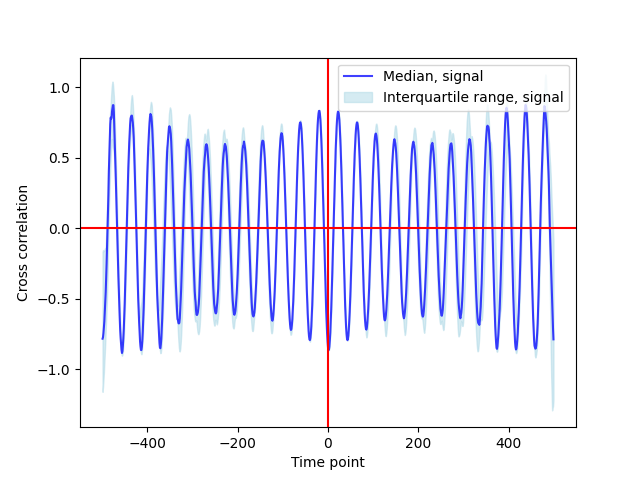
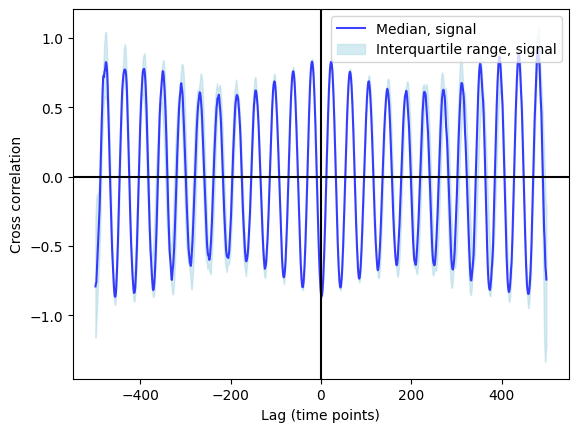
change(analysis): replace cross-correlation figures

Changed region(s): [[0.0, 0.0, 0.9965, 0.9931], [0.0934, 0.0602, 0.1246, 0.1204]]

diff --git a/chapter_analysis/chapter_analysis.tex b/chapter_analysis/chapter_analysis.tex
@@ -1101,16 +1101,15 @@ Importantly, \textcite{kivietStochasticityMetabolismGrowth2014} employed a singl
 
 \begin{figure}
   \centering
-  \begin{subfigure}[t]{0.5\textwidth}
+  \begin{subfigure}[t]{0.6\textwidth}
   \centering
-  % TODO: Squish so that it is consistent with adjacent figure
     \includegraphics[width=\linewidth]{sinusoid_and_fitzhughnagumo_nonoise.png}
     \caption{
     }
     \label{fig:xcf-nonoise-ts}
   \end{subfigure}%
   \centering
-  \begin{subfigure}[t]{0.5\textwidth}
+  \begin{subfigure}[t]{0.4\textwidth}
   \centering
     \includegraphics[width=\linewidth]{randomshift_sinusoid_fitzhughnagumo_xcf.png}
     \caption{
@@ -1118,7 +1117,7 @@ Importantly, \textcite{kivietStochasticityMetabolismGrowth2014} employed a singl
     \label{fig:xcf-nonoise-xcf}
   \end{subfigure}
 
-  \begin{subfigure}[t]{0.5\textwidth}
+  \begin{subfigure}[t]{0.6\textwidth}
   \centering
     \includegraphics[width=\linewidth]{sinusoid_and_fitzhughnagumo_gillnoise.png}
     \caption{
@@ -1126,7 +1125,7 @@ Importantly, \textcite{kivietStochasticityMetabolismGrowth2014} employed a singl
     \label{fig:xcf-gillnoise-ts}
   \end{subfigure}%
   \centering
-  \begin{subfigure}[t]{0.5\textwidth}
+  \begin{subfigure}[t]{0.4\textwidth}
   \centering
     \includegraphics[width=\linewidth]{randomshift_sinusoid_fitzhughnagumo_gillnoise_xcf.png}
     \caption{
